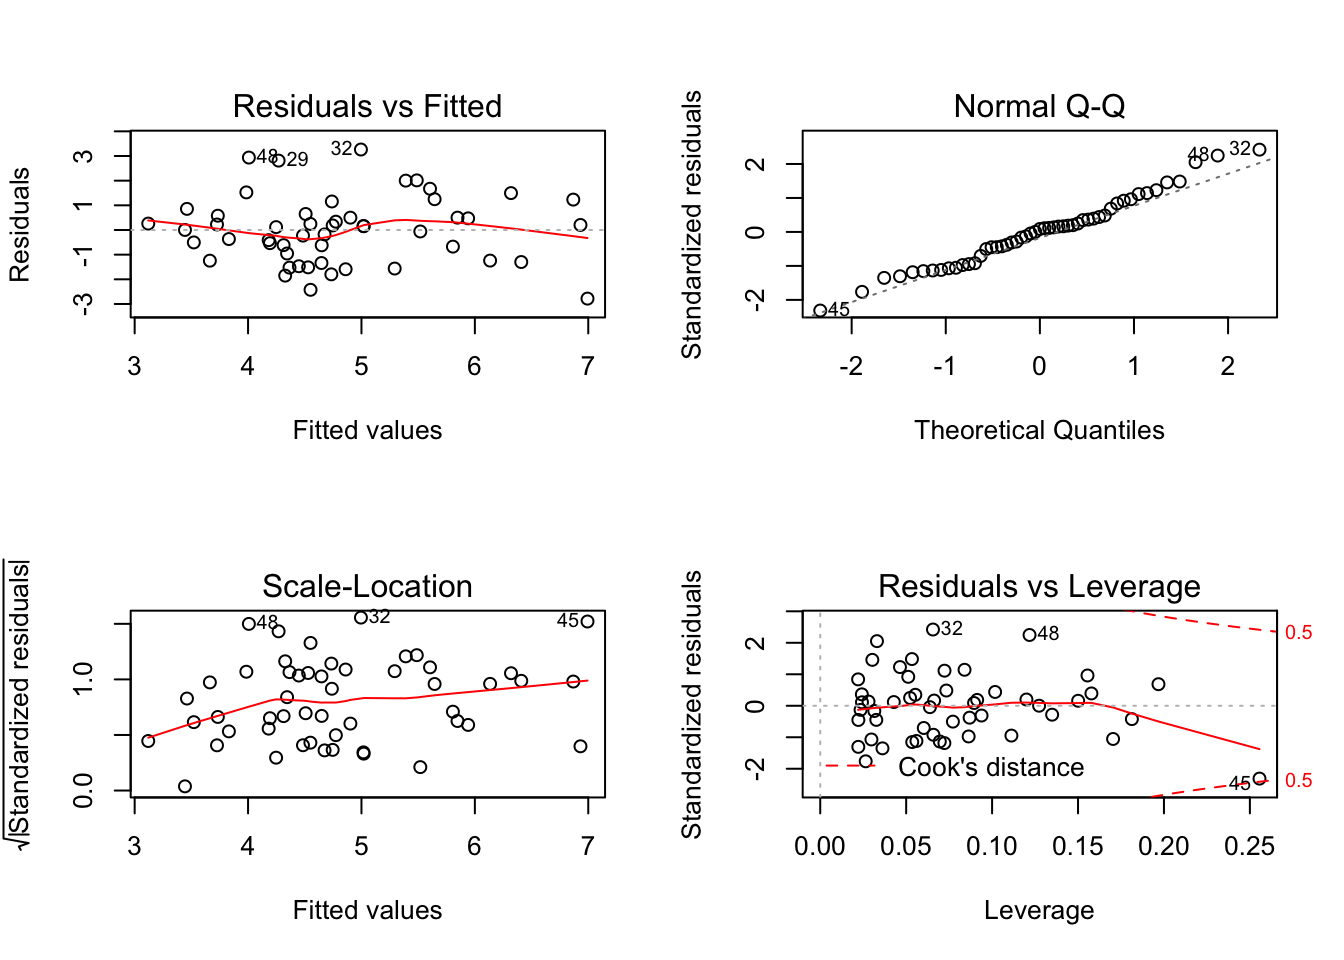
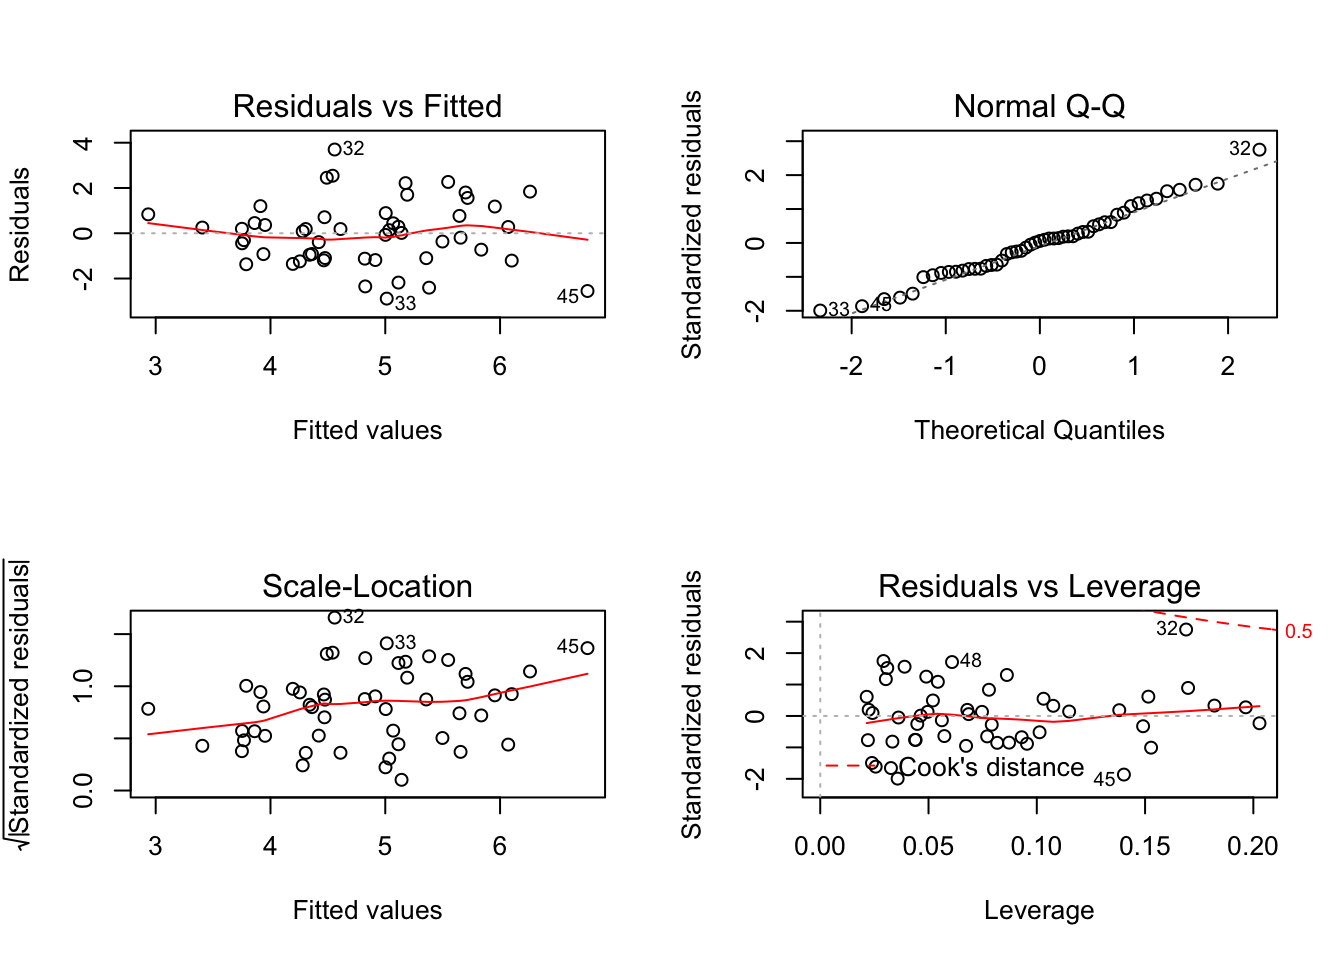
reorganized the dataset of drug for combining purpose and then correct the following analysis

diff --git a/about.html b/about.html
@@ -231,12 +231,12 @@ $(document).ready(function () {
 <div id="load-crime-and-drug-data-and-do-some-clean-up" class="section level4">
 <h4>load crime and drug data and do some clean up!</h4>
 <pre class="r"><code>library(tidyverse)</code></pre>
-<pre><code>## ─ Attaching packages ───────────────── tidyverse 1.2.1 ─</code></pre>
-<pre><code>## ✔ ggplot2 3.1.0     ✔ purrr   0.2.5
-## ✔ tibble  1.4.2     ✔ dplyr   0.7.8
-## ✔ tidyr   0.8.2     ✔ stringr 1.3.1
+<pre><code>## ── Attaching packages ───────────────────────────────────────────────── tidyverse 1.2.1 ──</code></pre>
+<pre><code>## ✔ ggplot2 3.0.0     ✔ purrr   0.2.5
+## ✔ tibble  1.4.2     ✔ dplyr   0.7.6
+## ✔ tidyr   0.8.1     ✔ stringr 1.3.1
 ## ✔ readr   1.1.1     ✔ forcats 0.3.0</code></pre>
-<pre><code>## ─ Conflicts ────────────────── tidyverse_conflicts() ─
+<pre><code>## ── Conflicts ──────────────────────────────────────────────────── tidyverse_conflicts() ──
 ## ✖ dplyr::filter() masks stats::filter()
 ## ✖ dplyr::lag()    masks stats::lag()</code></pre>
 <pre class="r"><code>library(readxl)
@@ -286,7 +286,7 @@ crime = readxl::read_excel(&quot;./data/crime-data-2016.xls&quot;, range = (&quo
           motor_vehicle_theft_rate = names(.)[23]) %&gt;% 
   mutate(area = as.factor(area)) 
 crime[,2:23] &lt;- as.numeric(unlist(crime[,2:23]))</code></pre>
-<pre><code>## Warning: 强制改变过程中产生了NA</code></pre>
+<pre><code>## Warning: NAs introduced by coercion</code></pre>
 <pre class="r"><code># fill up area name
 i = 1
 for (i in 0:65) {
@@ -354,7 +354,7 @@ colnames(crime_clean)[1] = &quot;state&quot;
 crime_clean = 
   crime_clean %&gt;%
   filter(!state %in% c(&quot;United States Total&quot;, &quot;Northeast&quot;, &quot;Midwest&quot;, &quot;South&quot;, &quot;West&quot;, &quot;New England&quot;, &quot;Middle Atlantic&quot;, &quot;East North Central&quot;, &quot;West North Central&quot;, &quot;South Atlantic&quot;, &quot;East South Central&quot;, &quot;West South Central&quot;, &quot;Mountain&quot;, &quot;Pacific&quot;, &quot;Puerto Rico&quot;))</code></pre>
-<p>load drug data and clean up</p>
+<p>Load drug data and clean up</p>
 <pre class="r"><code># Remove the block later
 drug_raw =
   read_csv(&quot;./data/drugs.csv&quot;) %&gt;%
@@ -385,7 +385,7 @@ drug_raw =
 ##   # ... with 43 more columns
 ## )</code></pre>
 <pre><code>## See spec(...) for full column specifications.</code></pre>
-<pre class="r"><code>drug_data = 
+<pre class="r"><code>drug_clean = 
   drug_raw %&gt;%
   select(year, state,
          rates_alcohol_abuse_past_year_12_17:rates_alcohol_dependence_past_year_26,
@@ -395,17 +395,13 @@ drug_raw =
   gather(key, value, -state, -year) %&gt;% 
   mutate(key = str_replace_all(key, c(&quot;year_&quot; = &quot;year:&quot;, &quot;month_&quot; = &quot;month:&quot;, &quot;risk_&quot; = &quot;risk:&quot;, &quot;users_&quot; = &quot;users:&quot;))) %&gt;%
   separate(key, into = c(&quot;rate&quot;, &quot;age&quot;), sep = &quot;:&quot;, extra = &quot;merge&quot;) %&gt;%
-  mutate(rate = str_replace(rate, &quot;^rates_&quot;, &quot;&quot;)) %&gt;% 
-  spread(rate, value)
+  mutate(rate = str_replace(rate, &quot;^rates_&quot;, &quot;&quot;))
 
 population_data = 
   drug_raw %&gt;% 
   select(x12_17, x18_25:x26, year, state) %&gt;% 
   gather(key = &quot;age&quot;, value = &quot;popul_in_thousands&quot;, -state, -year) %&gt;% 
-  mutate(age = str_replace(age, &quot;x&quot;, &quot;&quot;))
-
-drug_clean = left_join(drug_data, population_data)</code></pre>
-<pre><code>## Joining, by = c(&quot;year&quot;, &quot;state&quot;, &quot;age&quot;)</code></pre>
+  mutate(age = str_replace(age, &quot;x&quot;, &quot;&quot;))</code></pre>
 </div>
 <div id="get-y-and-x-for-regression" class="section level4">
 <h4>Get Y and X for regression</h4>
@@ -436,45 +432,38 @@ dim(crime_mean_rate) #right</code></pre>
 ## #   burglary_rate &lt;dbl&gt;, larceny_theft_rate &lt;dbl&gt;,
 ## #   motor_vehicle_theft_rate &lt;dbl&gt;</code></pre>
 <p>X: 51 states, each with mean drug rate (3 types of drugs)</p>
-<pre class="r"><code>drug_sum_row = drug_clean %&gt;% 
-  group_by(state, age) %&gt;%
-  select(-year) %&gt;% 
-  summarise_all(funs(mean)) %&gt;% 
-  group_by(state) %&gt;% 
-  select(-age) %&gt;% 
-  summarise_all(funs(sum))
-
-drug_sum_alcohol &lt;-
-  drug_sum_row %&gt;% 
-  select(grep(&quot;alcohol&quot;,names(.))) %&gt;%
-  mutate(alcohol_sum = rowSums(.[1:6])) %&gt;% 
-  select(alcohol_sum)
-
-drug_sum_illicit &lt;-
-  drug_sum_row %&gt;% 
-  select(grep(&quot;illicit&quot;,names(.))) %&gt;%
-  mutate(illicit_sum = rowSums(.[1:4])) %&gt;% 
-  select(illicit_sum)
-
-drug_sum_marijuana &lt;-
-  drug_sum_row %&gt;% 
-  select(grep(&quot;marijuana&quot;,names(.))) %&gt;%
-  mutate(marijuana_sum = rowSums(.[1:4])) %&gt;% 
-  select(marijuana_sum)
-
-drug_mean_rate &lt;- cbind(drug_sum_row$state, drug_sum_alcohol, drug_sum_illicit, drug_sum_marijuana)
+<pre class="r"><code>drug_mean_rate = drug_clean %&gt;% 
+  group_by(state, rate, age) %&gt;% 
+  summarize(drug_average = mean(value)) %&gt;% 
+  group_by(state, rate) %&gt;% 
+  summarize(drug_sum = sum(drug_average)) %&gt;% 
+  filter(!str_detect(rate, &#39;perceptions&#39;),
+         str_detect(rate, &#39;past_year&#39;)) %&gt;% 
+  mutate(rate = str_replace_all(rate, c(&quot;alcohol_&quot; = &quot;alcohol:&quot;, &quot;illicit_drugs_&quot; = &quot;illicit_drugs:&quot;, &quot;marijuana_&quot; = &quot;marijuana:&quot;))) %&gt;% 
+  separate(rate, into = c(&quot;drug&quot;, &quot;degree&quot;), sep = &quot;:&quot;, extra = &quot;merge&quot;) %&gt;% 
+  select(-degree) %&gt;% 
+  group_by(state, drug) %&gt;% 
+  summarize(use_past_year = sum(drug_sum)) %&gt;% 
+# up to here, it&#39;s already a tidy dataset, but for regression we need to define each drug as a variable, so we choose to spread &quot;drug&quot; column
+  spread(key = drug, value = use_past_year)
 
 head(drug_mean_rate)</code></pre>
-<pre><code>##   drug_sum_row$state alcohol_sum illicit_sum marijuana_sum
-## 1            Alabama    348.5669    56.19923      183.4815
-## 2             Alaska    378.0608    79.76923      187.6946
-## 3            Arizona    381.9392    73.02462      176.6023
-## 4           Arkansas    351.6715    61.57769      182.1669
-## 5         California    379.2208    73.55615      183.5223
-## 6           Colorado    404.9269    90.40385      193.0815</code></pre>
+<pre><code>## # A tibble: 6 x 4
+## # Groups:   state [6]
+##   state      alcohol illicit_drugs marijuana
+##   &lt;chr&gt;        &lt;dbl&gt;         &lt;dbl&gt;     &lt;dbl&gt;
+## 1 Alabama       53.2          24.8      41.2
+## 2 Alaska        65.5          31.3      68.4
+## 3 Arizona       68.5          34.1      51.7
+## 4 Arkansas      57.9          27.0      45.6
+## 5 California    63.1          32.4      56.0
+## 6 Colorado      73.1          38.1      70.9</code></pre>
 <pre class="r"><code># Combine X and Y into one data frame
-regression_data_raw = cbind(crime_mean_rate,drug_mean_rate) %&gt;%
-  select(-rape_legacy_rate, -`drug_sum_row$state`)</code></pre>
+regression_data_raw = left_join(crime_mean_rate, drug_mean_rate) %&gt;% 
+  select(-rape_legacy_rate)</code></pre>
+<pre><code>## Joining, by = &quot;state&quot;</code></pre>
+<pre><code>## Warning: Column `state` joining factor and character vector, coercing into
+## character vector</code></pre>
 </div>
 <div id="linear-regression" class="section level4">
 <h4>Linear Regression</h4>
@@ -492,22 +481,22 @@ regression_model =
   group_by(crime_type) %&gt;%
   nest() %&gt;%
   mutate(
-    linear_model = map(data, ~lm(crime_rate ~ illicit_sum + alcohol_sum + marijuana_sum, data = .x)),
+    linear_model = map(data, ~lm(crime_rate ~ illicit_drugs + alcohol + marijuana, data = .x)),
     linear_model = map(linear_model, broom::tidy)) %&gt;%
   select(-data) %&gt;%
   unnest()
 
 # Filter the model that has p-value is less than 0.1
 regression_model %&gt;% 
-  filter(p.value &lt; 0.1)</code></pre>
-<pre><code>## # A tibble: 5 x 6
-##   crime_type              term        estimate std.error statistic p.value
-##   &lt;chr&gt;                   &lt;chr&gt;          &lt;dbl&gt;     &lt;dbl&gt;     &lt;dbl&gt;   &lt;dbl&gt;
-## 1 murder_manslaughter_ra… illicit_sum -0.00148  0.000852     -1.73 0.0896 
-## 2 murder_manslaughter_ra… marijuana_…  0.00180  0.00104       1.74 0.0890 
-## 3 burglary_rate           illicit_sum -0.0705   0.0361       -1.95 0.0566 
-## 4 burglary_rate           alcohol_sum -0.0315   0.0100       -3.14 0.00288
-## 5 burglary_rate           marijuana_…  0.103    0.0439        2.35 0.0231</code></pre>
+  filter(p.value &lt; 0.1,
+         term != &quot;(Intercept)&quot;)</code></pre>
+<pre><code>## # A tibble: 4 x 6
+##   crime_type               term      estimate std.error statistic p.value
+##   &lt;chr&gt;                    &lt;chr&gt;        &lt;dbl&gt;     &lt;dbl&gt;     &lt;dbl&gt;   &lt;dbl&gt;
+## 1 murder_manslaughter_rate alcohol   -0.00141  0.000688     -2.04  0.0468
+## 2 robbery_rate             alcohol   -0.0285   0.0161       -1.77  0.0824
+## 3 robbery_rate             marijuana  0.0444   0.0246        1.81  0.0772
+## 4 burglary_rate            alcohol   -0.0682   0.0317       -2.15  0.0363</code></pre>
 <ul>
 <li>Put “population” into the model</li>
 </ul>
@@ -521,31 +510,28 @@ population_data = population_data %&gt;%
 
 new_reg_data = left_join(regression_data_raw, population_data)</code></pre>
 <pre><code>## Joining, by = &quot;state&quot;</code></pre>
-<pre><code>## Warning: Column `state` joining factor and character vector, coercing into
-## character vector</code></pre>
 <pre class="r"><code># Construct new regression models
 new_reg_data %&gt;%
   gather(key = crime_type, value = crime_rate, violent_crime_rate:motor_vehicle_theft_rate) %&gt;%
+  mutate(crime_type = str_replace(crime_type, &quot;_rate&quot;, &quot;&quot;)) %&gt;% 
   group_by(crime_type) %&gt;%
   nest() %&gt;%
   mutate(
-    linear_model = map(data, ~lm(crime_rate ~ illicit_sum + alcohol_sum + marijuana_sum   + total_pop_thousands, data = .x)),
+    linear_model = map(data, ~lm(crime_rate ~ illicit_drugs + alcohol + marijuana + total_pop_thousands, data = .x)),
     linear_model = map(linear_model, broom::tidy)) %&gt;%
   select(-data) %&gt;%
   unnest() %&gt;% 
-  filter(p.value &lt; 0.1)</code></pre>
-<pre><code>## # A tibble: 6 x 6
-##   crime_type          term          estimate   std.error statistic p.value
-##   &lt;chr&gt;               &lt;chr&gt;            &lt;dbl&gt;       &lt;dbl&gt;     &lt;dbl&gt;   &lt;dbl&gt;
-## 1 murder_manslaughte… illicit_sum   -1.48e-3     8.62e-4     -1.71 0.0931 
-## 2 murder_manslaughte… marijuana_sum  1.80e-3     1.05e-3      1.72 0.0924 
-## 3 rape_revise_rate    total_pop_th… -7.93e-9     4.63e-9     -1.71 0.0935 
-## 4 burglary_rate       illicit_sum   -7.10e-2     3.64e-2     -1.95 0.0570 
-## 5 burglary_rate       alcohol_sum   -3.18e-2     1.01e-2     -3.14 0.00293
-## 6 burglary_rate       marijuana_sum  1.03e-1     4.42e-2      2.34 0.0237</code></pre>
+  filter(p.value &lt; 0.1,
+         term != &quot;(Intercept)&quot;)</code></pre>
+<pre><code>## # A tibble: 3 x 6
+##   crime_type          term      estimate std.error statistic p.value
+##   &lt;chr&gt;               &lt;chr&gt;        &lt;dbl&gt;     &lt;dbl&gt;     &lt;dbl&gt;   &lt;dbl&gt;
+## 1 murder_manslaughter alcohol   -0.00146  0.000716     -2.04  0.0474
+## 2 robbery             marijuana  0.0473   0.0248        1.91  0.0629
+## 3 burglary            alcohol   -0.0790   0.0323       -2.44  0.0184</code></pre>
 <p>From the result we could see that, only burglary has significant estimated coefficients for all three variables. So we would look into the model assumptions.</p>
 <p>Check the diagnostics of the models.</p>
-<pre class="r"><code>model1 = lm(burglary_rate ~ illicit_sum + alcohol_sum + marijuana_sum, data = regression_data_raw)
+<pre class="r"><code>model1 = lm(burglary_rate ~ illicit_drugs + alcohol + marijuana, data = regression_data_raw)
 par(mfrow = c(2,2))
 plot(model1)</code></pre>
 <p><img src="about_files/figure-html/diagnostics%20for%20each%20models-1.png" width="672" /></p>
@@ -559,23 +545,23 @@ plot(model1)</code></pre>
   filter(crime_type == &quot;burglary_rate&quot;) %&gt;% 
   modelr::bootstrap(n = 100) %&gt;% 
   mutate(
-    linear_model = map(strap, ~lm(crime_rate ~ illicit_sum + alcohol_sum + marijuana_sum   + total_pop_thousands, data = .x)),
+    linear_model = map(strap, ~lm(crime_rate ~ illicit_drugs + alcohol + marijuana + total_pop_thousands, data = .x)),
     results = map(linear_model, broom::tidy)) %&gt;% 
   select(results) %&gt;%
   unnest()</code></pre>
 <pre><code>## # A tibble: 500 x 5
-##    term                     estimate    std.error statistic  p.value
-##    &lt;chr&gt;                       &lt;dbl&gt;        &lt;dbl&gt;     &lt;dbl&gt;    &lt;dbl&gt;
-##  1 (Intercept)          1.44         8.68             0.166 0.869   
-##  2 illicit_sum         -0.0807       0.0375          -2.15  0.0366  
-##  3 alcohol_sum         -0.0248       0.0121          -2.04  0.0469  
-##  4 marijuana_sum        0.102        0.0492           2.08  0.0427  
-##  5 total_pop_thousands -0.0000000130 0.0000000272    -0.479 0.634   
-##  6 (Intercept)         -1.60         5.99            -0.267 0.791   
-##  7 illicit_sum         -0.106        0.0294          -3.60  0.000768
-##  8 alcohol_sum         -0.0217       0.00829         -2.62  0.0119  
-##  9 marijuana_sum        0.121        0.0357           3.39  0.00146 
-## 10 total_pop_thousands  0.0000000304 0.0000000458     0.664 0.510   
+##    term                estimate    std.error statistic  p.value
+##    &lt;chr&gt;                  &lt;dbl&gt;        &lt;dbl&gt;     &lt;dbl&gt;    &lt;dbl&gt;
+##  1 (Intercept)          1.07e+1 2.70             3.95  0.000268
+##  2 illicit_drugs        3.67e-2 0.139            0.264 0.793   
+##  3 alcohol             -6.06e-2 0.0384          -1.58  0.122   
+##  4 marijuana           -5.58e-2 0.0535          -1.04  0.302   
+##  5 total_pop_thousands -2.27e-8 0.0000000382    -0.593 0.556   
+##  6 (Intercept)          9.62e+0 3.04             3.16  0.00277 
+##  7 illicit_drugs        5.15e-2 0.117            0.441 0.661   
+##  8 alcohol             -5.77e-2 0.0434          -1.33  0.190   
+##  9 marijuana           -4.70e-2 0.0478          -0.983 0.331   
+## 10 total_pop_thousands -3.27e-8 0.0000000426    -0.767 0.447   
 ## # ... with 490 more rows</code></pre>
 </div>
 <div id="some-graphs" class="section level4">
